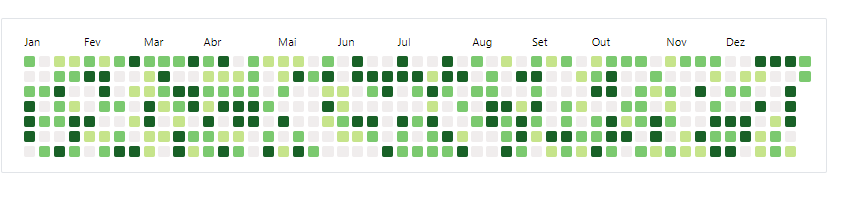
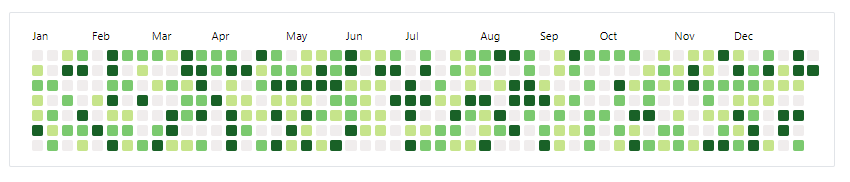
3

diff --git a/src/lib/graph/graph.component.html b/src/lib/graph/graph.component.html
@@ -4,17 +4,17 @@
   <div class="graph myContainer" >
     <ul class="months">
       <li>Jan</li>
-      <li>Fev</li>
+      <li>Feb</li>
       <li>Mar</li>
-      <li>Abr</li>
-      <li>Mai</li>
+      <li>Apr</li>
+      <li>May</li>
       <li>Jun</li>
       <li>Jul</li>
       <li>Aug</li>
-      <li>Set</li>
-      <li>Out</li>
+      <li>Sep</li>
+      <li>Oct</li>
       <li>Nov</li>
-      <li>Dez</li>
+      <li>Dec</li>
     </ul>
 
     <ul  class="squares" id="squares">

diff --git a/README.md b/README.md
@@ -87,10 +87,32 @@ constructor(){}
 ````
 
 
+In this last example, relatively small data was entered, resulting in the following git-calendar:
 
+![alt](https://github.com/SergioNoivak/ng-git-calendar/blob/master/assets/f2.PNG)
+
+
+The section below builds a more complex example of a random git-calendar.
 ## More complex example: Github random commits
 
 In this example, the data attribute will be generated randomly and will produce a graph of commits
+````html
+<!-- app.component.html -->
+
+<p>
+    Git random colors
+</p>
+
+<lib-ng-git-calendar
+ year="2020"
+ colorLevel1="#c6e48b"
+ colorLevel2="#7bc96f"
+ colorLevel3="#196127"
+ [data]="data"
+    ></lib-ng-git-calendar>
+````
+
+To define attribute ``data``, just click on any component, in matrix format, each data row is a vector of specified data once selected level
 
 ````typescript
 import { Component } from '@angular/core';
